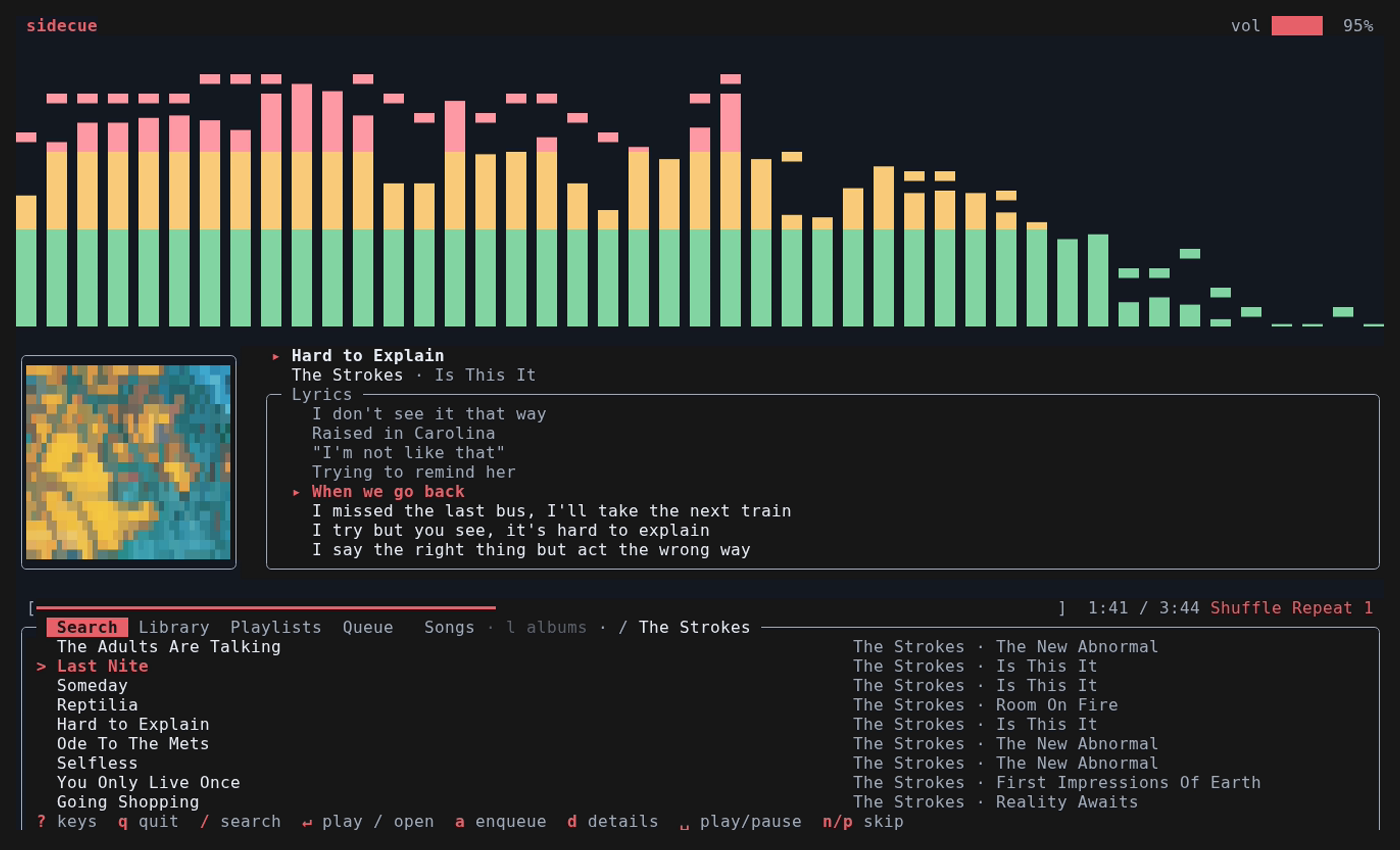
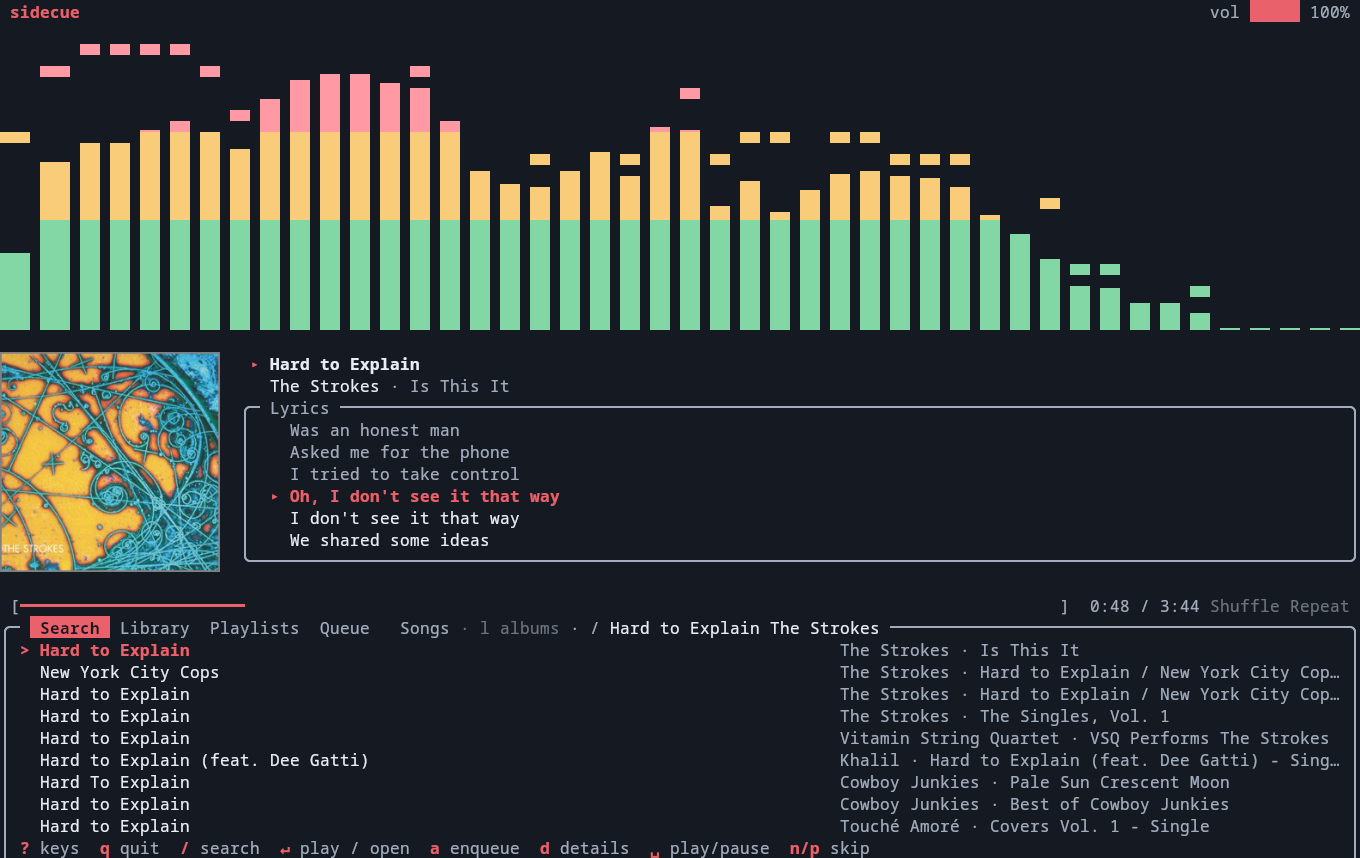
Capture README screenshots in kitty

diff --git a/README.md b/README.md
@@ -4,11 +4,24 @@ A cliamp-style terminal player for Apple Music on Linux. [Cider](https://cider.s
 does the playback; sidecue controls it over Cider's local API and adds search,
 library, playlists, queue and spectrum/waveform visualizers.
 
-![sidecue player with album art, lyrics, the spectrum visualizer and catalog search results](demo/screenshot-player.png)
+![Hard to Explain by The Strokes in sidecue, with native album art, synced lyrics and the spectrum visualizer](demo/screenshot-player.png)
+
+Captured in kitty with real images via the kitty graphics protocol, not the
+block-art fallback used by terminals without graphics support.
+
+### Themes
 
 <p>
-  <img src="demo/screenshot-fullscreen.png" alt="Full-screen spectrum visualizer with lyrics" width="49%">
-  <img src="demo/screenshot-waveform.png" alt="Waveform visualizer" width="49%">
+  <img src="demo/screenshot-waveform-terminal.png" alt="Terminal theme waveform" width="49%">
+  <img src="demo/screenshot-waveform.png" alt="Dark theme waveform" width="49%">
+</p>
+<p>
+  <img src="demo/screenshot-waveform-light.png" alt="Light theme waveform" width="49%">
+  <img src="demo/screenshot-paper.png" alt="Paper theme waveform" width="49%">
+</p>
+<p>
+  <img src="demo/screenshot-waveform-contrast.png" alt="High contrast waveform" width="49%">
+  <img src="demo/screenshot-fullscreen.png" alt="Fullscreen waveform with lyrics" width="49%">
 </p>
 
 Status: preparing the first public release; core playback has been live-verified

diff --git a/demo/README.md b/demo/README.md
@@ -6,7 +6,17 @@ plays **I Wonder — Kanye West** from catalog search, opens the **102026**
 playlist, the details panel and the Queue, and ends on the waveform and
 full-screen visualizer.
 
-## Re-shoot the README screenshots
+## README screenshots (kitty)
+
+The seven README PNGs show **Hard to Explain — The Strokes** playing in
+catalog Search. They were captured directly from a 1400×900 kitty window with
+`kitten @ --to "unix:$D/kitty.sock" screenshot --match id:1
+demo/screenshot-player.png` (substitute each screenshot filename while its
+theme or fullscreen view is visible). Use an isolated settings profile when
+switching themes; screenshots include kitty-native album art. Review every
+image before publishing.
+
+### Legacy VHS screenshots (block-art fallback)
 
 Play a song with lyrics in Cider, then run `vhs demo/screenshots.tape`. It
 only searches (never changes playback) and shows catalog results rather than
